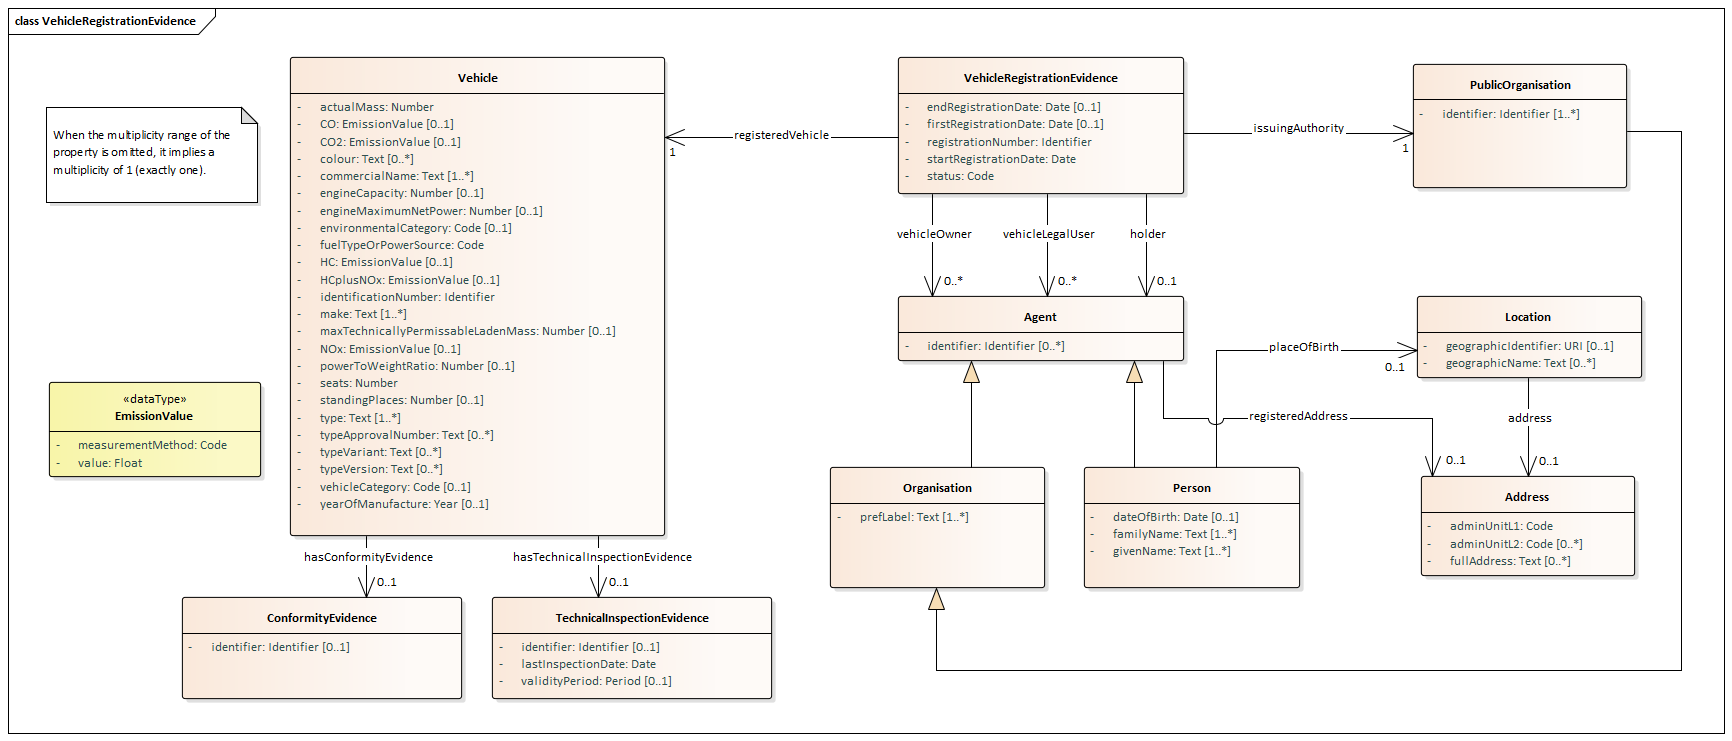
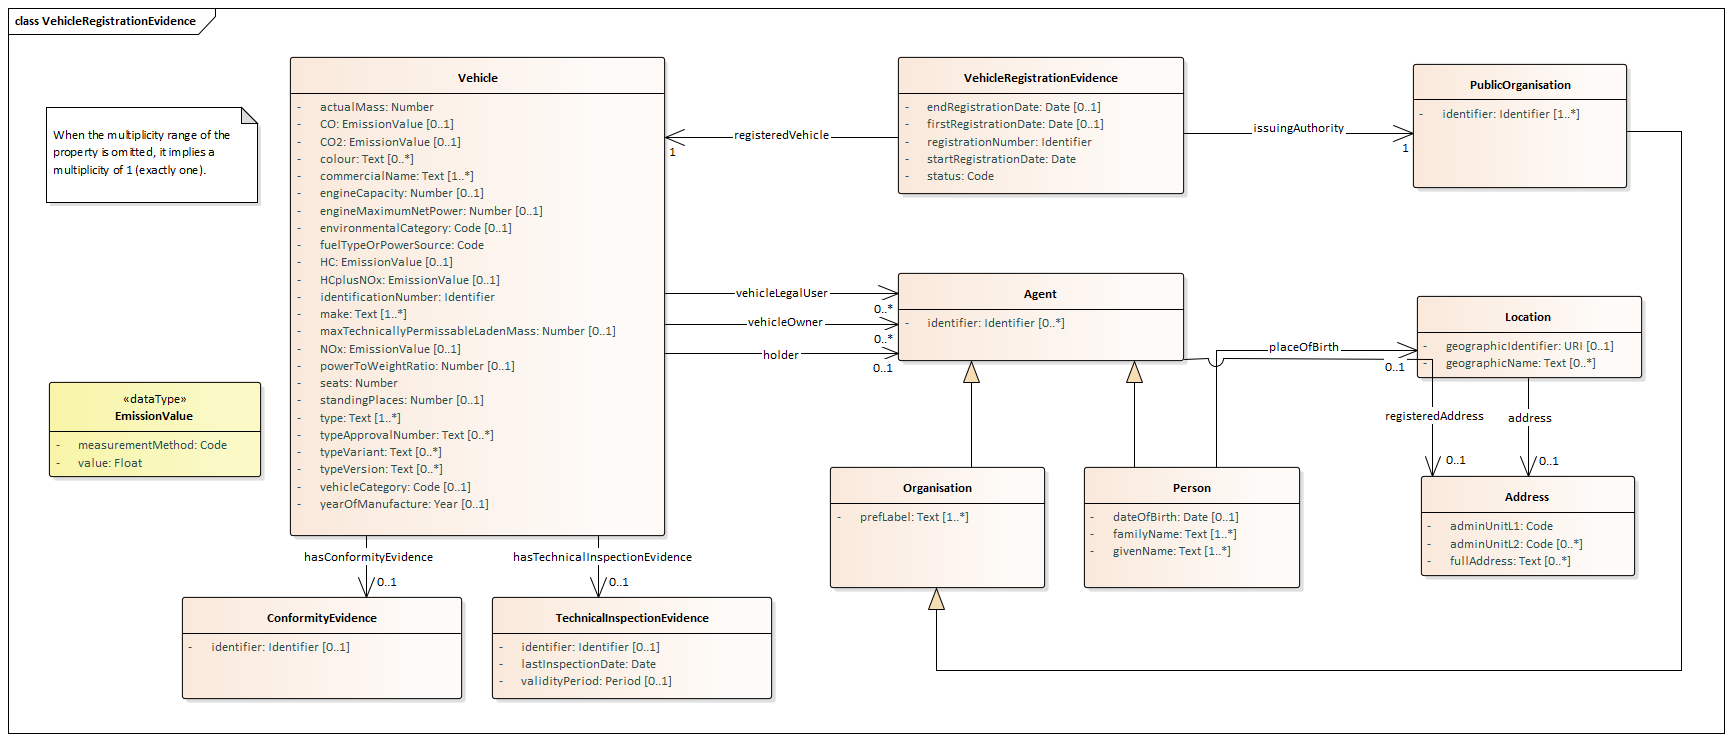
Update vehicle owner, holder & user

diff --git a/evidences/certificate_of_completion_of_secondary_education/data_model/certificate_of_completion_of_secondary_education_tables_v0.02.md b/evidences/certificate_of_completion_of_secondary_education/data_model/certificate_of_completion_of_secondary_education_tables_v0.02.md
@@ -85,8 +85,8 @@ This page relates to [version (v0.15)](certificate_of_completion_of_secondary_ed
 
 **Source**: [ISA² Core Location Vocabulary](https://www.w3.org/ns/locn)
 
-|     attribute              |     expected type  |     definition                                                                                                                                                                                                                                                 |     cardinality    |  code list                                                                                                                                                                       | source |
-|----------------------------|--------------------|----------------------------------------------------------------------------------------------------------------------------------------------------------------------------------------------------------------------------------------------------------------|--------------------|----------------------------------------------------------------------------------------------------------------------------------------------------------------------------------|-------| 
+|     attribute              |     expected type  |     definition                                                                                                                                                                                                                                                 |     cardinality    |  code list                                                                                                                                                                       | 
+|----------------------------|--------------------|----------------------------------------------------------------------------------------------------------------------------------------------------------------------------------------------------------------------------------------------------------------|--------------------|----------------------------------------------------------------------------------------------------------------------------------------------------------------------------------|
 |     geographic name        |     [Code](https://github.com/SEMICeu/SDG-sandbox/blob/master/technical_documentation/data_types.md#code)           |     A geographic name is a proper noun applied to a spatial object. The INSPIRE Data Specification on Geographical Names [INGN] provides a detailed model for describing a 'named place', including methods for providing multiple names in multiple scripts.  |     [0..1]         |   [GeoNames](https://www.geonames.org/)  | 
 |     geographic identifier  |     [URI](https://github.com/SEMICeu/SDG-sandbox/blob/master/technical_documentation/data_types.md#data-types)            |     A URI that identifies the Location.                                                                                                                                                                                                                        |     [0..1]         |  [GeoNames](https://www.geonames.org/)   | 
 |     address               |     [Address](https://github.com/SEMICeu/SDG-sandbox/blob/master/evidences/certificate_of_completion_of_secondary_education/data_model/certificate_of_completion_of_secondary_education_tables_v0.02.md#address)        |     The address property relationship associates a Location with the Address entity.                                                                                                                                                                               |     [0..1]         | N/A       | 

diff --git a/evidences/vehicle_registration_certificate/data_model/vehicle_registration_certificate_tables_v0.02.md b/evidences/vehicle_registration_certificate/data_model/vehicle_registration_certificate_tables_v0.02.md
@@ -60,6 +60,9 @@ This page relates to version [version (v0.14)](vehicle_registration_certificate_
 |     HC + NOx		    						   |     [EmissionValue](#emission-value)                                                                                                                        |     Exhaust emissions of hydrocarbon and nitrogen oxides (in g/km).                                                                                                  |     [0..1]         | N/A                                                                     |
 |     has conformity evidence					   |     [Conformity Evidence](#conformity-evidence)                                                                                                             |     The Conformity Evidence of the Vehicle.                                                                                                                          |     [0..1]         | N/A                                                                     |
 |     has technical inspection evidence	     	   |     [Technical Inspection Evidence](#technical-inspection-evidence)                                                                                         |     The last Technical Inspection Evidence of the Vehicle.                                                                                                           |     [0..1]         | N/A                                                                     |
+|     vehicle owner           |     [Agent](#agent)                                                                                                                           |     The natural person or legal person that is the legal owner of the Vehicle (i.e. the entity that has bought the Vehicle, and has the right to sell it).                          |     [0..*]         | N/A                                                                                  |
+|     vehicle legal user      |     [Agent](#agent)                                                                                                                           |     The natural person or legal person that has the legal right to use the Vehicle.                                                                                                 |     [0..*]         | N/A                                                                                  |
+|     holder                  |     [Agent](#agent)                                                                                                                           |     The natural person or legal person in whose name the Vehicle is registered.                                                                                                     |     [0..1]         | N/A                                                                                  |
 
 
 ### Conformity Evidence
